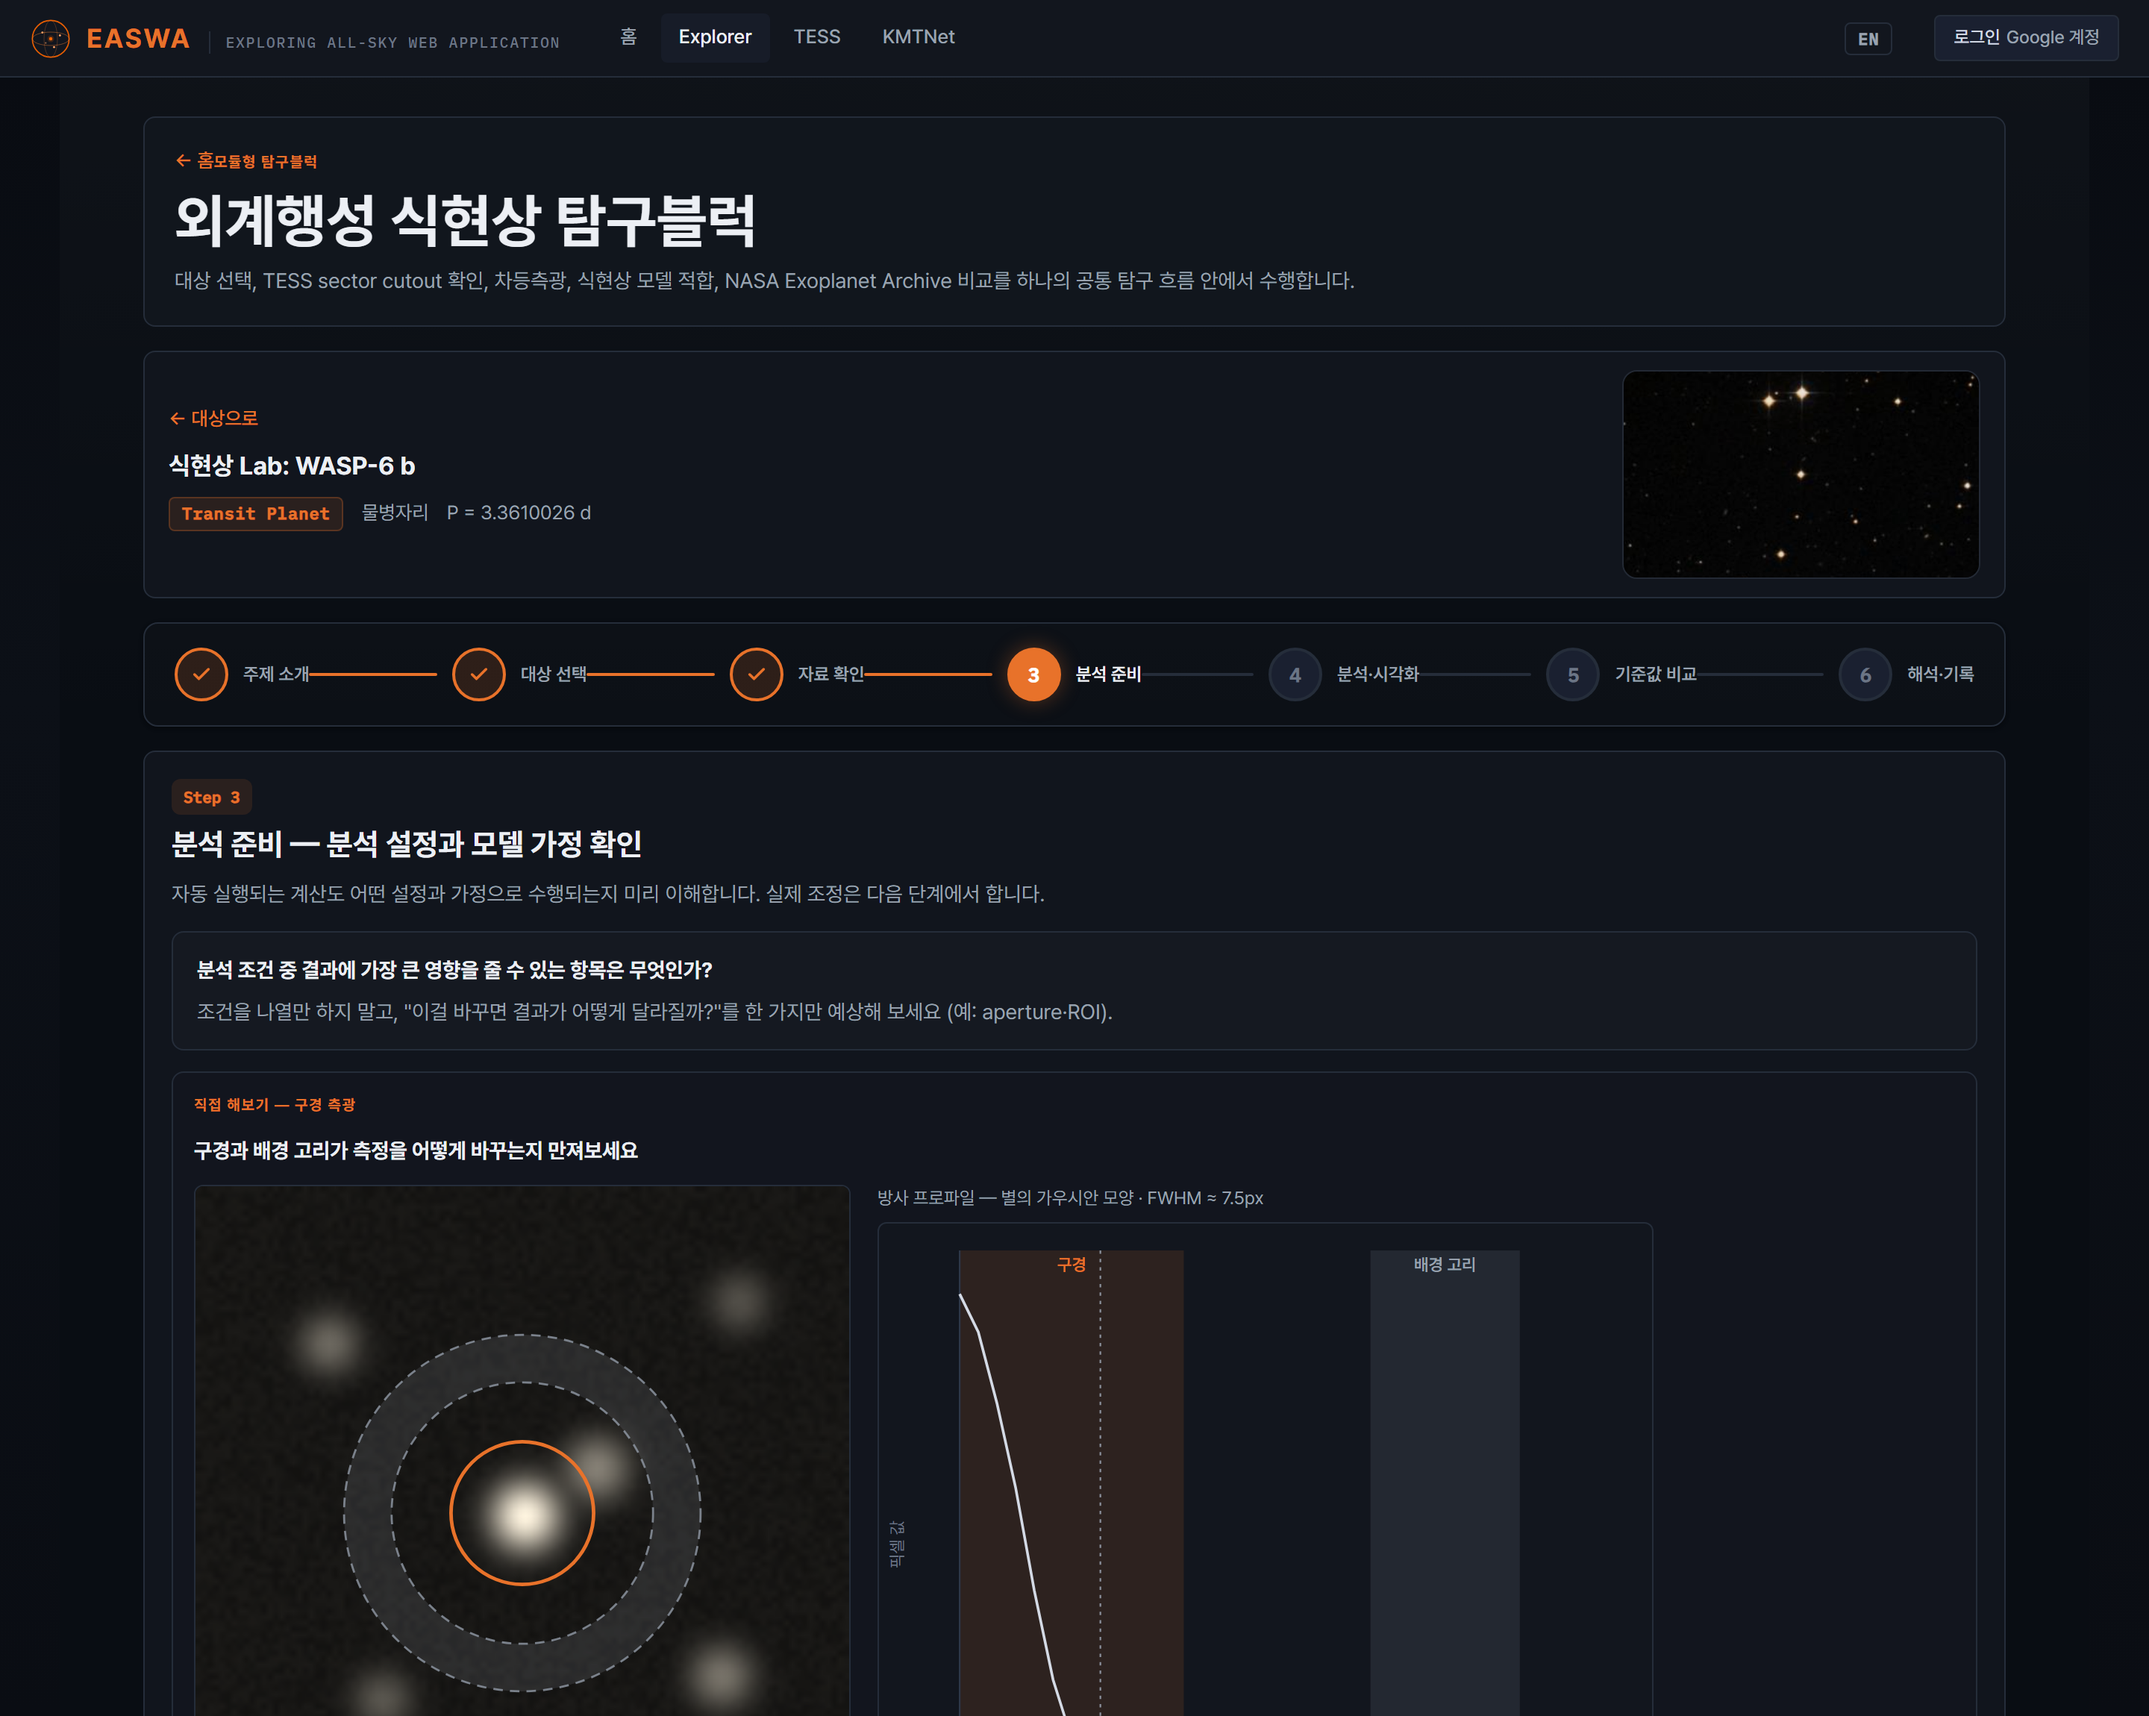
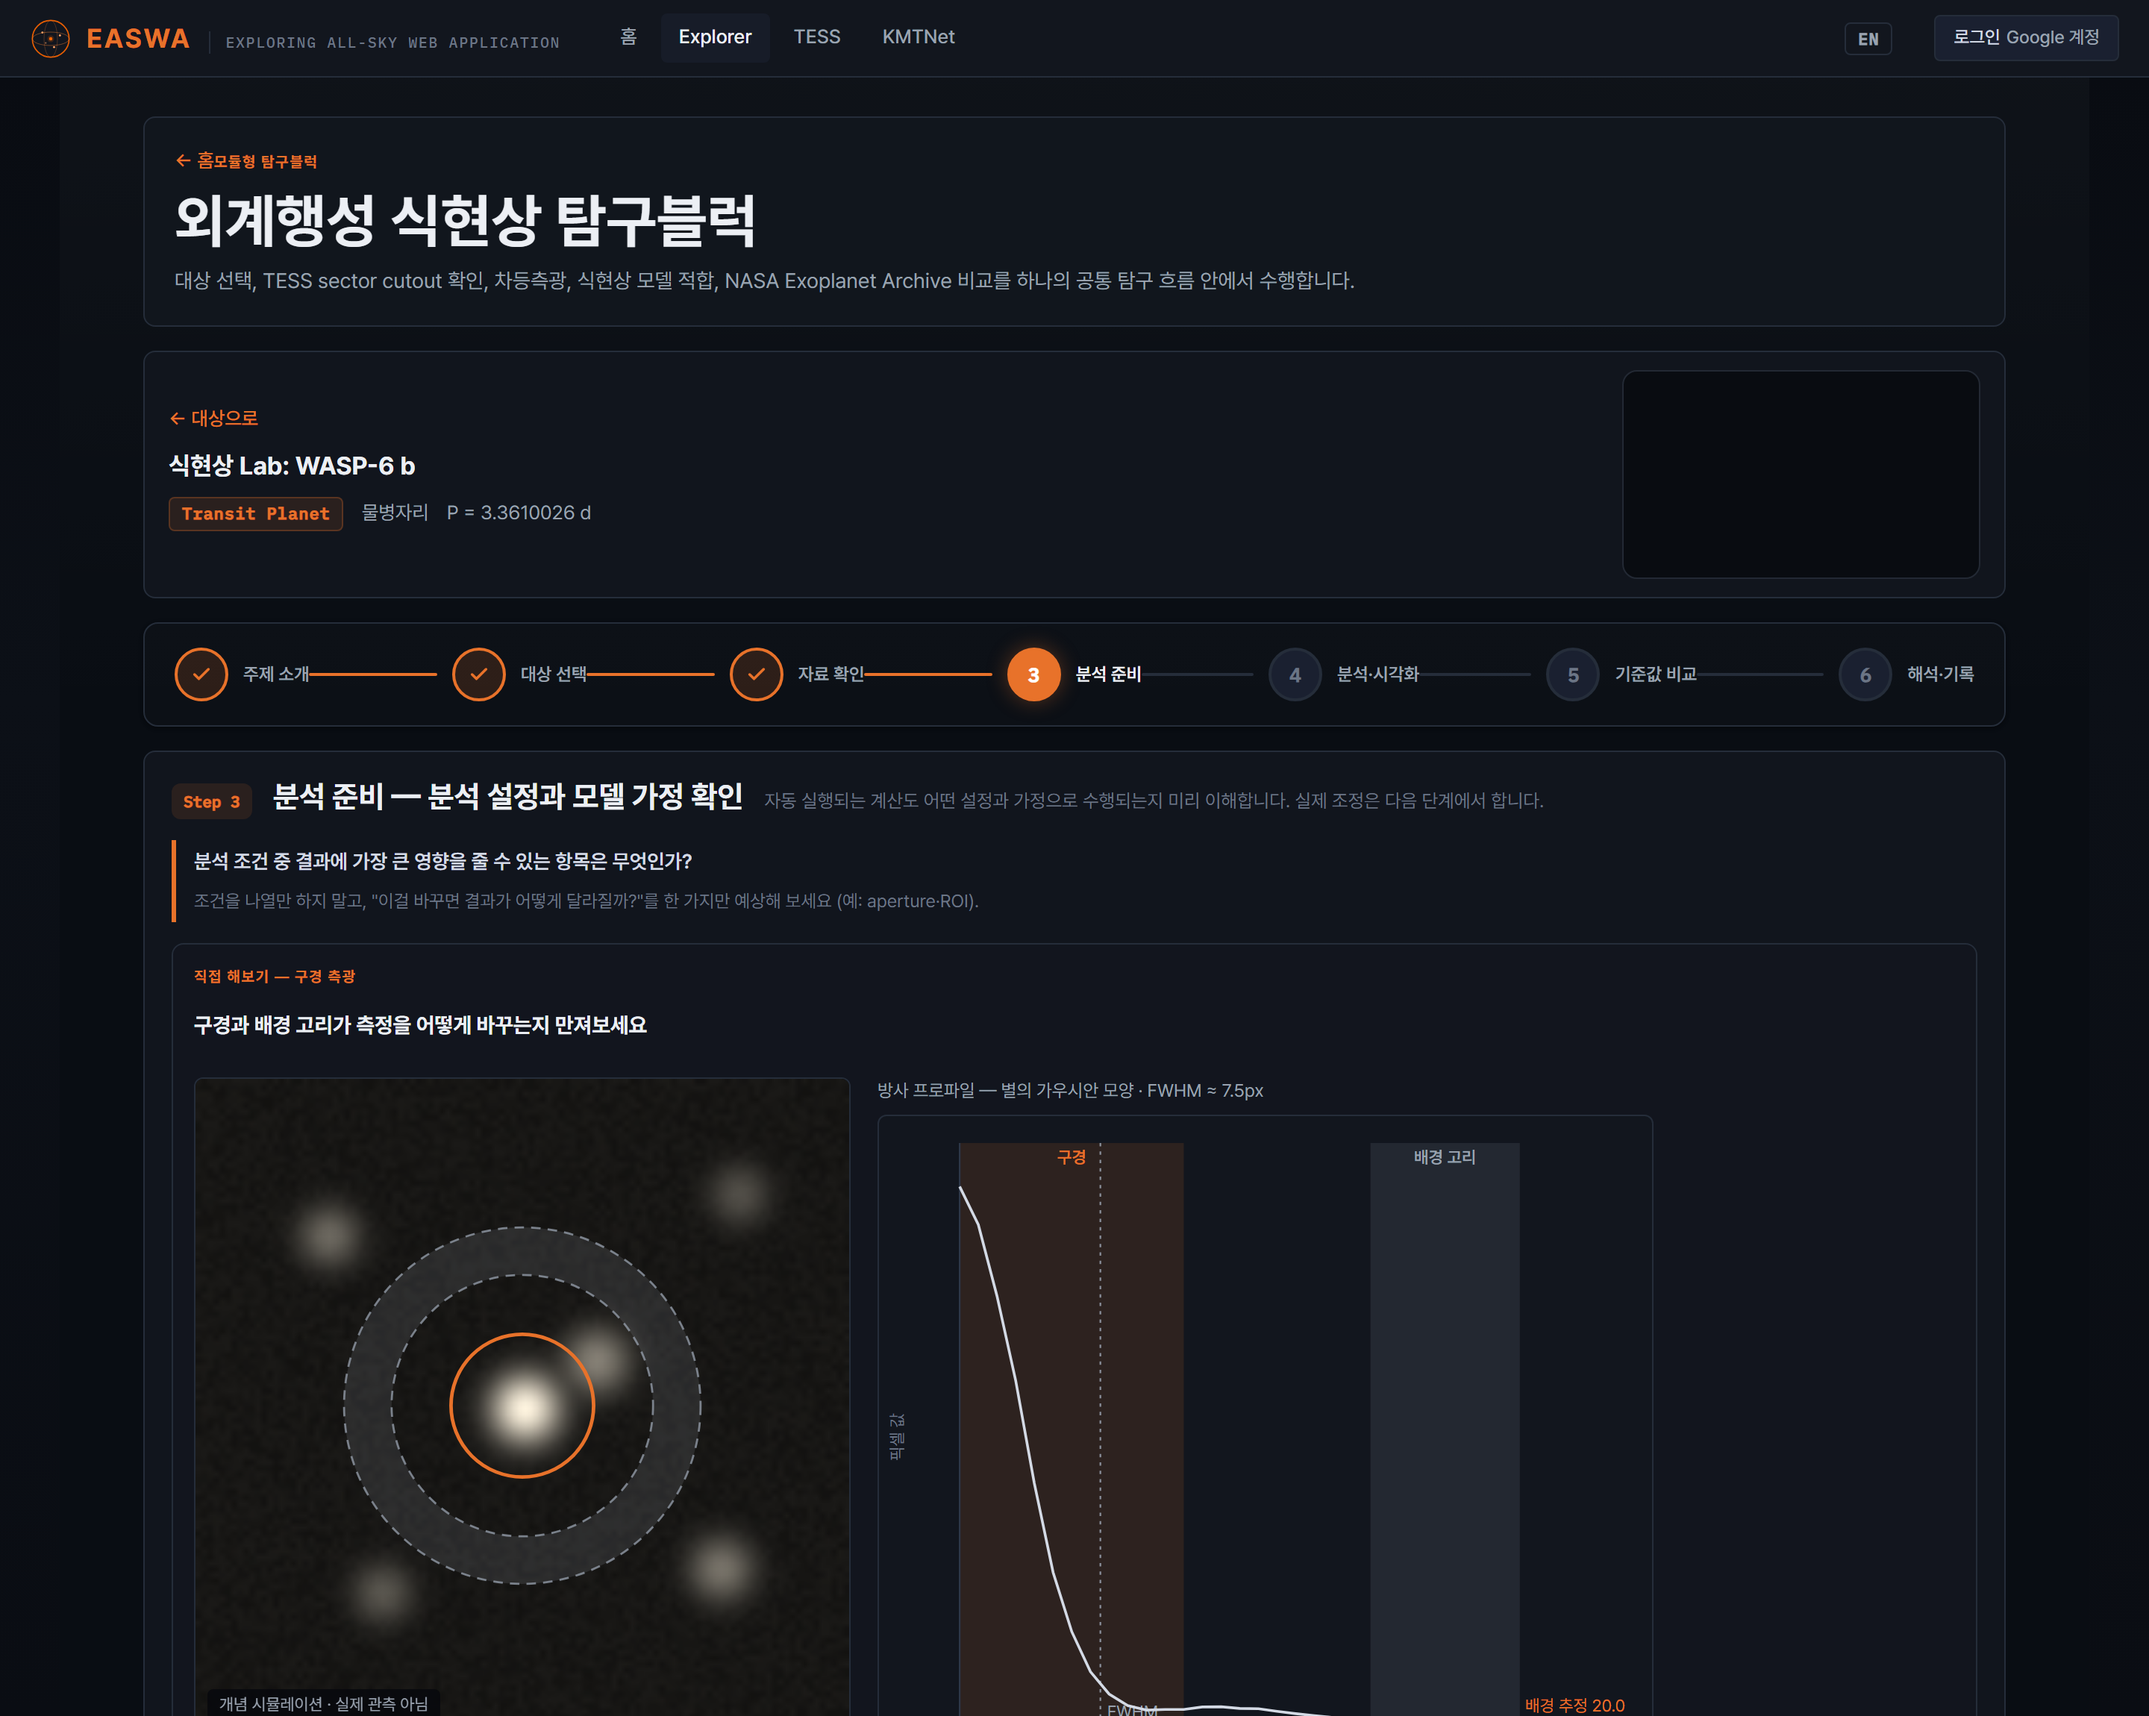
inquiry: slim step hierarchy to one title; 혼입→오염 terminology
Head row inlines chip+title+summary; guiding questions become left-bar quotes
instead of title-like cards; panel h3 demoted — content now starts on the
first screen. Contamination wording unified to 오염 across sandbox, lab,
comparison and configs. Steps 2-3 recaptured.

diff --git a/frontend/src/components/lab/TransitLab.tsx b/frontend/src/components/lab/TransitLab.tsx
@@ -217,7 +217,7 @@ const STEP_GUIDES: Record<TransitStep, GuideQuestion[]> = {
         { ko: '데이터 품질(TESS 노이즈)', en: 'Data quality (TESS noise)' },
       ],
       correct: '데이터 품질(TESS 노이즈)',
-      explanation: { ko: '지상 관측과 달리 TESS는 우주 망원경이라 대기 영향은 없지만, TESS 자체의 픽셀 크기(21"/px)로 인한 혼입(contamination)이 주요 오차 원인입니다.', en: 'Unlike ground-based observations, TESS avoids atmospheric effects as a space telescope. However, its large pixel scale (21\"/px) causes flux contamination, which is the main error source.' },
+      explanation: { ko: '지상 관측과 달리 TESS는 우주 망원경이라 대기 영향은 없지만, TESS 자체의 픽셀 크기(21"/px)로 인한 오염(contamination)이 주요 오차 원인입니다.', en: 'Unlike ground-based observations, TESS avoids atmospheric effects as a space telescope. However, its large pixel scale (21\"/px) causes flux contamination, which is the main error source.' },
     },
     { type: 'open', id: 'rec_q3', text: { ko: '이번 탐구에서 가장 흥미로웠던 점이나 추가로 알고 싶은 것을 적어보자.', en: 'Write down the most interesting aspect of this investigation, or what you would like to explore further.' } },
   ],
@@ -628,7 +628,7 @@ const TRANSIT_RECORD_KO: Record<string, RecordQuestionLocale> = {
     label: '분석 과정에서 확인한 문제를 선택하세요.',
     options: {
       few_comparisons: '적절한 비교성이 부족함',
-      blended_field: '주변 별빛이 혼입됨',
+      blended_field: '주변 별빛에 오염됨',
       noisy_curve: '광도곡선 잡음이 큼',
       field_too_small: '분석 시야가 너무 좁음',
       none: '뚜렷한 문제 없음',
@@ -643,7 +643,7 @@ const TRANSIT_RECORD_KO: Record<string, RecordQuestionLocale> = {
     placeholder:
       'Rp/R*, 식 깊이 또는 공전 주기를 비교하고, 차이가 발생한 원인을 자료와 분석 조건을 근거로 설명하세요.',
     helpText:
-      '비교성 품질, 별빛 혼입, 구경 크기, 선택한 시간 구간, 잡음, 모델 가정을 고려하세요.',
+      '비교성 품질, 별빛 오염, 구경 크기, 선택한 시간 구간, 잡음, 모델 가정을 고려하세요.',
   },
   next_step: {
     label: '분석을 다시 수행한다면 무엇을 바꾸겠는가?',
@@ -4070,7 +4070,7 @@ export function TransitLab({
                   </div>
                   <p className="transit-reference-note">
                     {lang === 'ko'
-                      ? '기준 Rp/R*는 카탈로그 식 깊이에 Rp/R* = √(depth)를 적용한 비교용 추정값입니다. 직접 출판된 반지름비와 동일한 값으로 간주하지 말고, 비교성 품질·별빛 혼입·구경·ROI·잡음·모델 가정을 근거로 차이를 설명하세요.'
+                      ? '기준 Rp/R*는 카탈로그 식 깊이에 Rp/R* = √(depth)를 적용한 비교용 추정값입니다. 직접 출판된 반지름비와 동일한 값으로 간주하지 말고, 비교성 품질·별빛 오염·구경·ROI·잡음·모델 가정을 근거로 차이를 설명하세요.'
                       : 'The reference Rp/R* is estimated from the catalog transit depth using Rp/R* = sqrt(depth). It is a comparison benchmark, not a direct published radius-ratio measurement. Explain the difference using comparison-star quality, blending, aperture choice, ROI, noise, and model assumptions.'}
                   </p>
                 </div>

diff --git a/frontend/src/index.css b/frontend/src/index.css
@@ -10436,3 +10436,20 @@ body {
 .hops-zero { stroke: var(--accent); stroke-width: 1; opacity: 0.8; }
 .hops-legend rect { fill: rgba(11, 14, 20, 0.82); stroke: var(--border-light); stroke-width: 1; }
 .transit-hops-caption { margin: 6px 0 0; font-size: 12px; color: var(--text-muted); line-height: 1.6; }
+
+
+/* ---------- Step hierarchy slim-down: one real title per page ---------- */
+.inquiry-step-panel-head { display: flex; align-items: baseline; gap: 10px 14px; flex-wrap: wrap; }
+.inquiry-step-panel-head h2 { margin: 0; }
+.inquiry-step-panel-head p { margin: 0; font-size: 12.5px; color: var(--text-muted); flex-basis: 100%; }
+@media (min-width: 900px) { .inquiry-step-panel-head p { flex-basis: auto; } }
+.inquiry-prompt {
+  background: transparent !important;
+  border: 0 !important;
+  border-left: 3px solid var(--accent) !important;
+  border-radius: 0 !important;
+  padding: 4px 12px !important;
+}
+.inquiry-prompt strong { font-size: 13.5px; font-weight: 600; color: var(--text-primary); }
+.inquiry-prompt span { font-size: 12px; color: var(--text-muted); }
+.inquiry-info-panel > h3 { font-size: 1.02rem; margin: 2px 0 12px; }

diff --git a/frontend/src/components/inquiry/TransitComparison.tsx b/frontend/src/components/inquiry/TransitComparison.tsx
@@ -260,7 +260,7 @@ export function TransitComparison({ fit, target }: TransitComparisonProps) {
 
       <div className="inquiry-callout">
         {lang === 'ko'
-          ? '기준 Rp/R*는 카탈로그 식 깊이에 Rp/R* = √(depth)를 적용한 비교용 추정값입니다 — 출판된 반지름비와 동일하게 보지 마세요. 측정값이 기준값과 다르다면 비교성 품질·별빛 혼입(blending)·aperture·ROI·잡음·모델 가정을 근거로 차이를 설명하세요.'
+          ? '기준 Rp/R*는 카탈로그 식 깊이에 Rp/R* = √(depth)를 적용한 비교용 추정값입니다 — 출판된 반지름비와 동일하게 보지 마세요. 측정값이 기준값과 다르다면 비교성 품질·별빛 오염(blending)·aperture·ROI·잡음·모델 가정을 근거로 차이를 설명하세요.'
           : 'The reference Rp/R* is √(depth) from the catalog depth — a comparison estimate, not the published radius ratio. If your value differs, explain it via comparison-star quality, blending, aperture, ROI, noise, or model assumptions.'}
       </div>
     </section>

diff --git a/frontend/src/explorationBlocks/configs.ts b/frontend/src/explorationBlocks/configs.ts
@@ -84,7 +84,7 @@ export const exoplanetTransitModule: ExplorationModuleConfig = {
           type: 'ox',
           question: { ko: 'TESS는 픽셀이 커서 주변 별빛이 섞이면(blending) 측정한 식 깊이가 실제보다 얕게 나올 수 있다.', en: 'Because TESS pixels are large, blending from nearby stars can make the measured transit depth shallower than the true value.' },
           correct: 'O',
-          explanation: { ko: '혼입광이 신호를 희석해 식 깊이를 과소평가하게 만듭니다.', en: 'Blended light dilutes the signal, biasing the depth low.' },
+          explanation: { ko: '주변 별빛 오염이 신호를 희석해 식 깊이를 과소평가하게 만듭니다.', en: 'Blended light dilutes the signal, biasing the depth low.' },
         },
       ],
     },

diff --git a/frontend/src/components/inquiry/ApertureSandbox.tsx b/frontend/src/components/inquiry/ApertureSandbox.tsx
@@ -462,7 +462,7 @@ export function ApertureSandbox() {
             <dd>{stats.enclosed.toFixed(0)}%</dd>
           </div>
           <div>
-            <dt>{ko ? '이웃별 혼입 (구경)' : 'Neighbor in aperture'}</dt>
+            <dt>{ko ? '이웃별 오염 (구경)' : 'Neighbor in aperture'}</dt>
             <dd className={stats.contamination > 5 ? 'warn' : ''}>
               {stats.contamination.toFixed(1)}%
             </dd>
